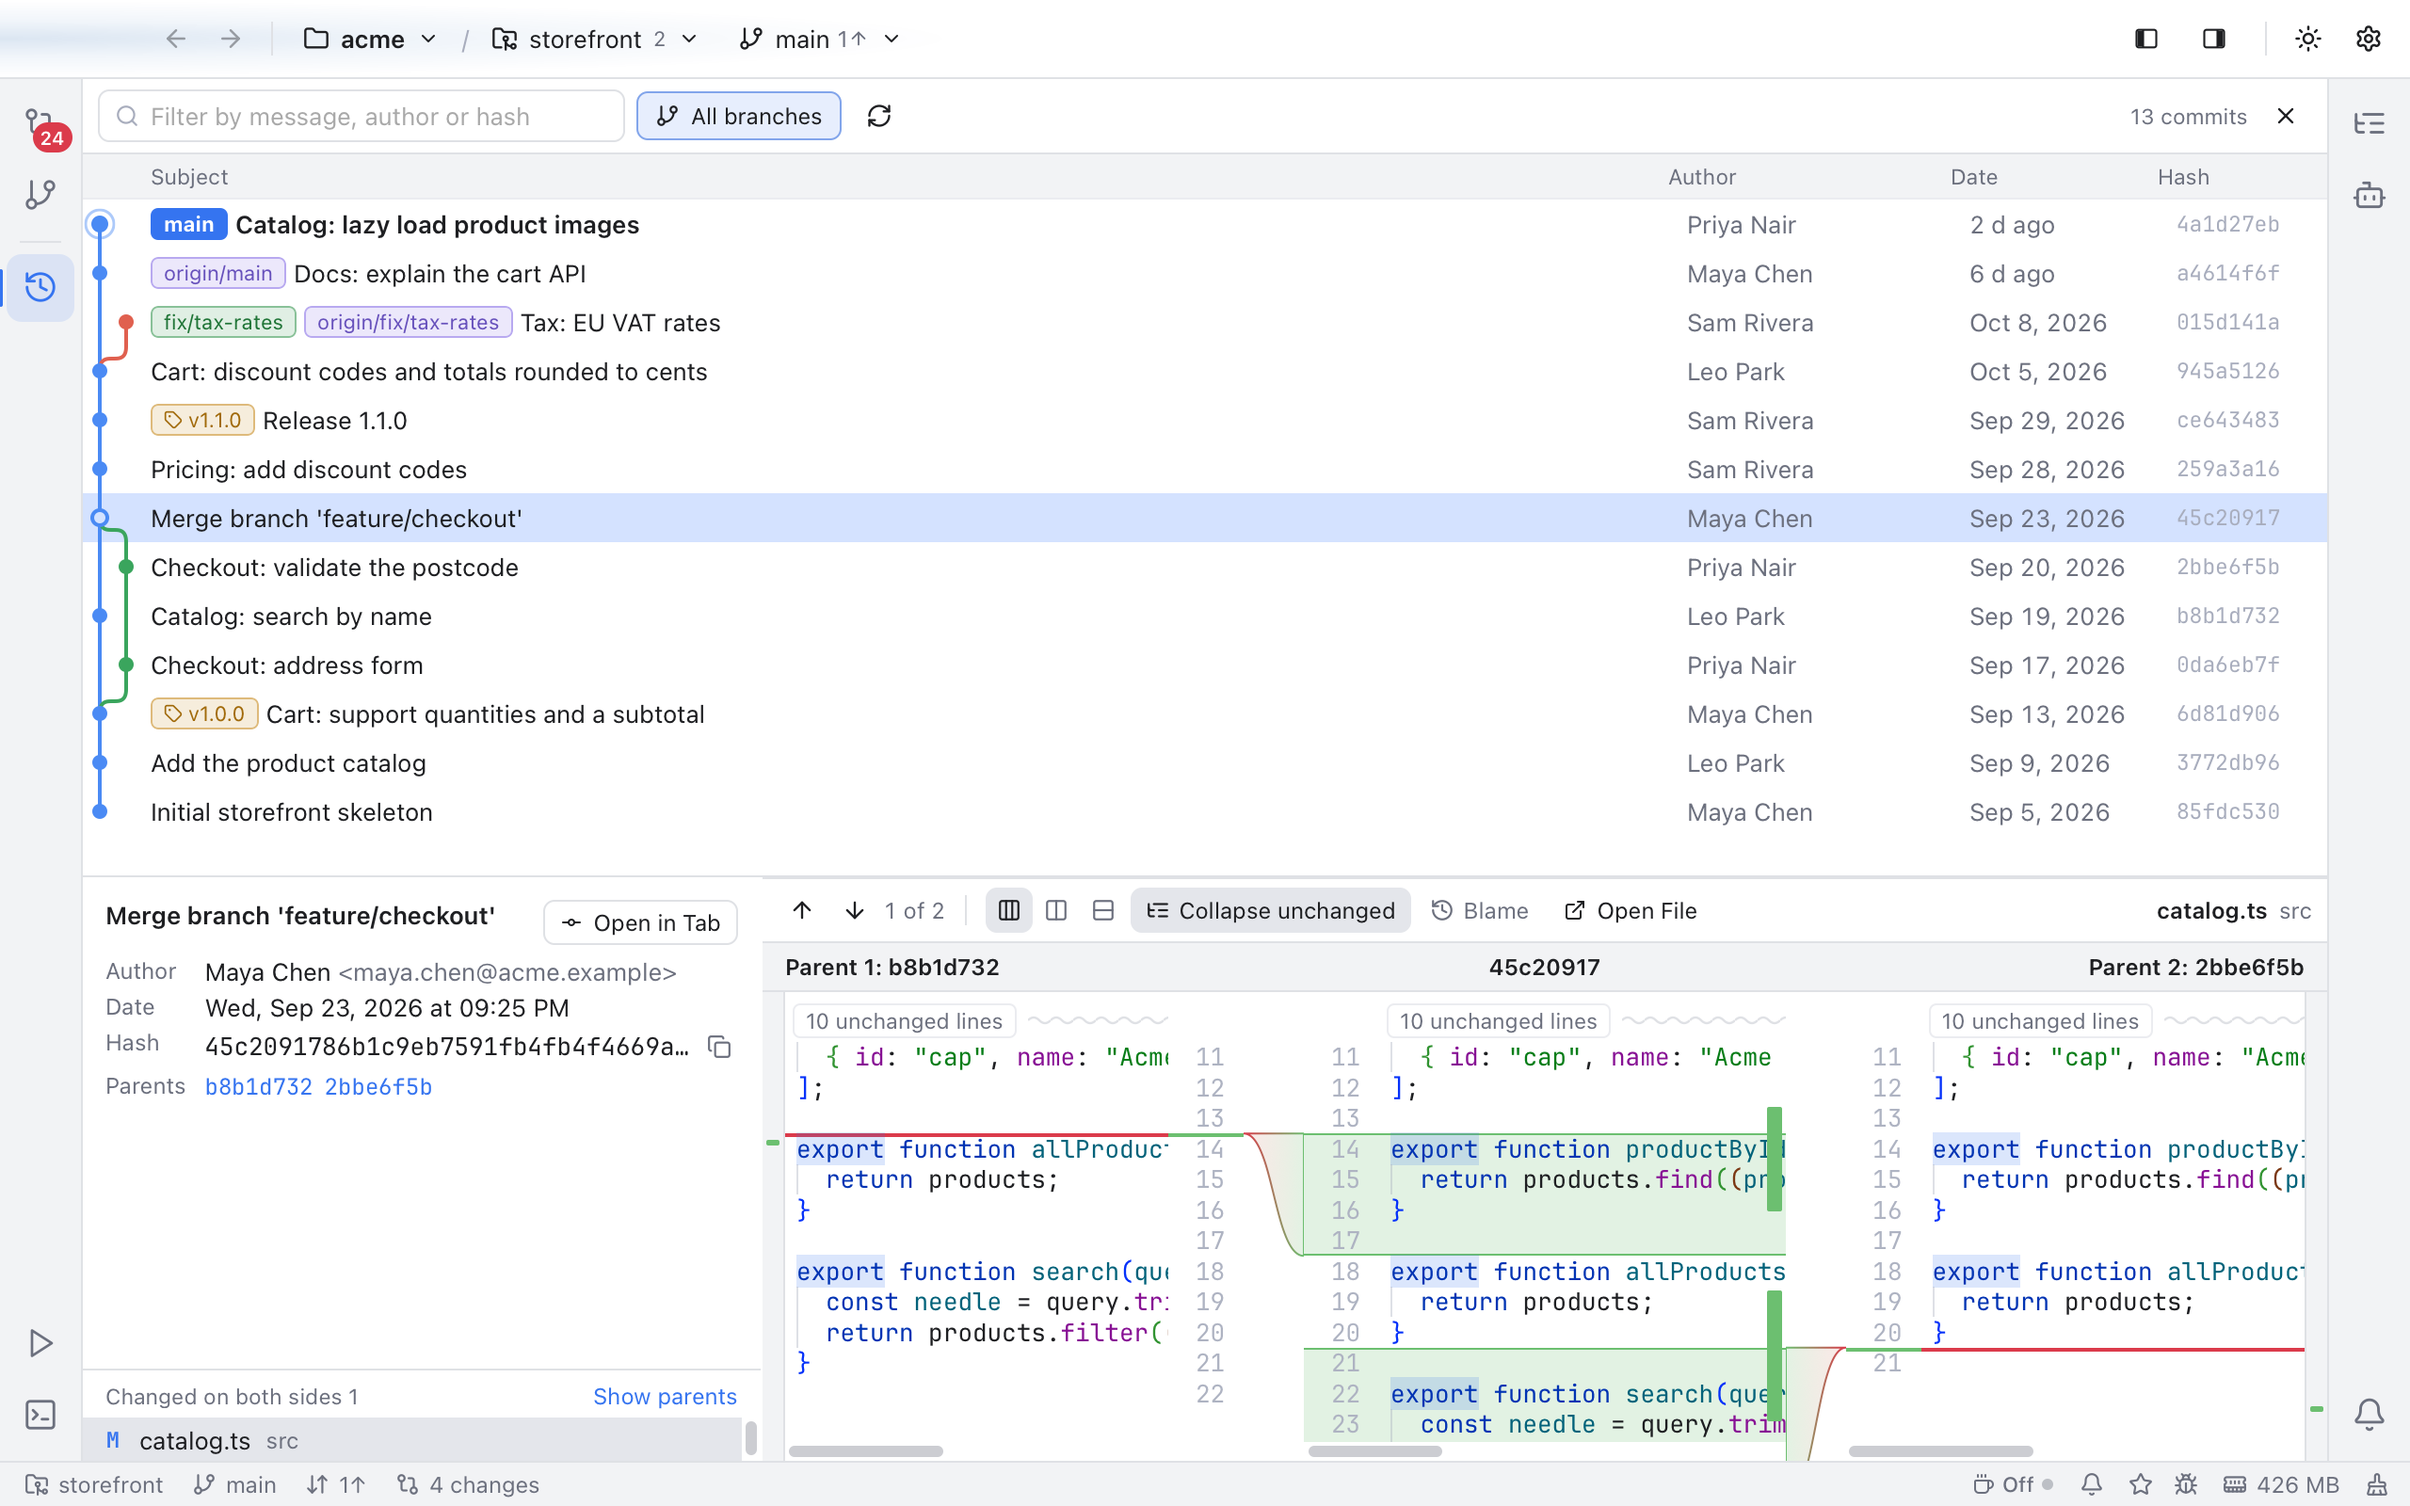
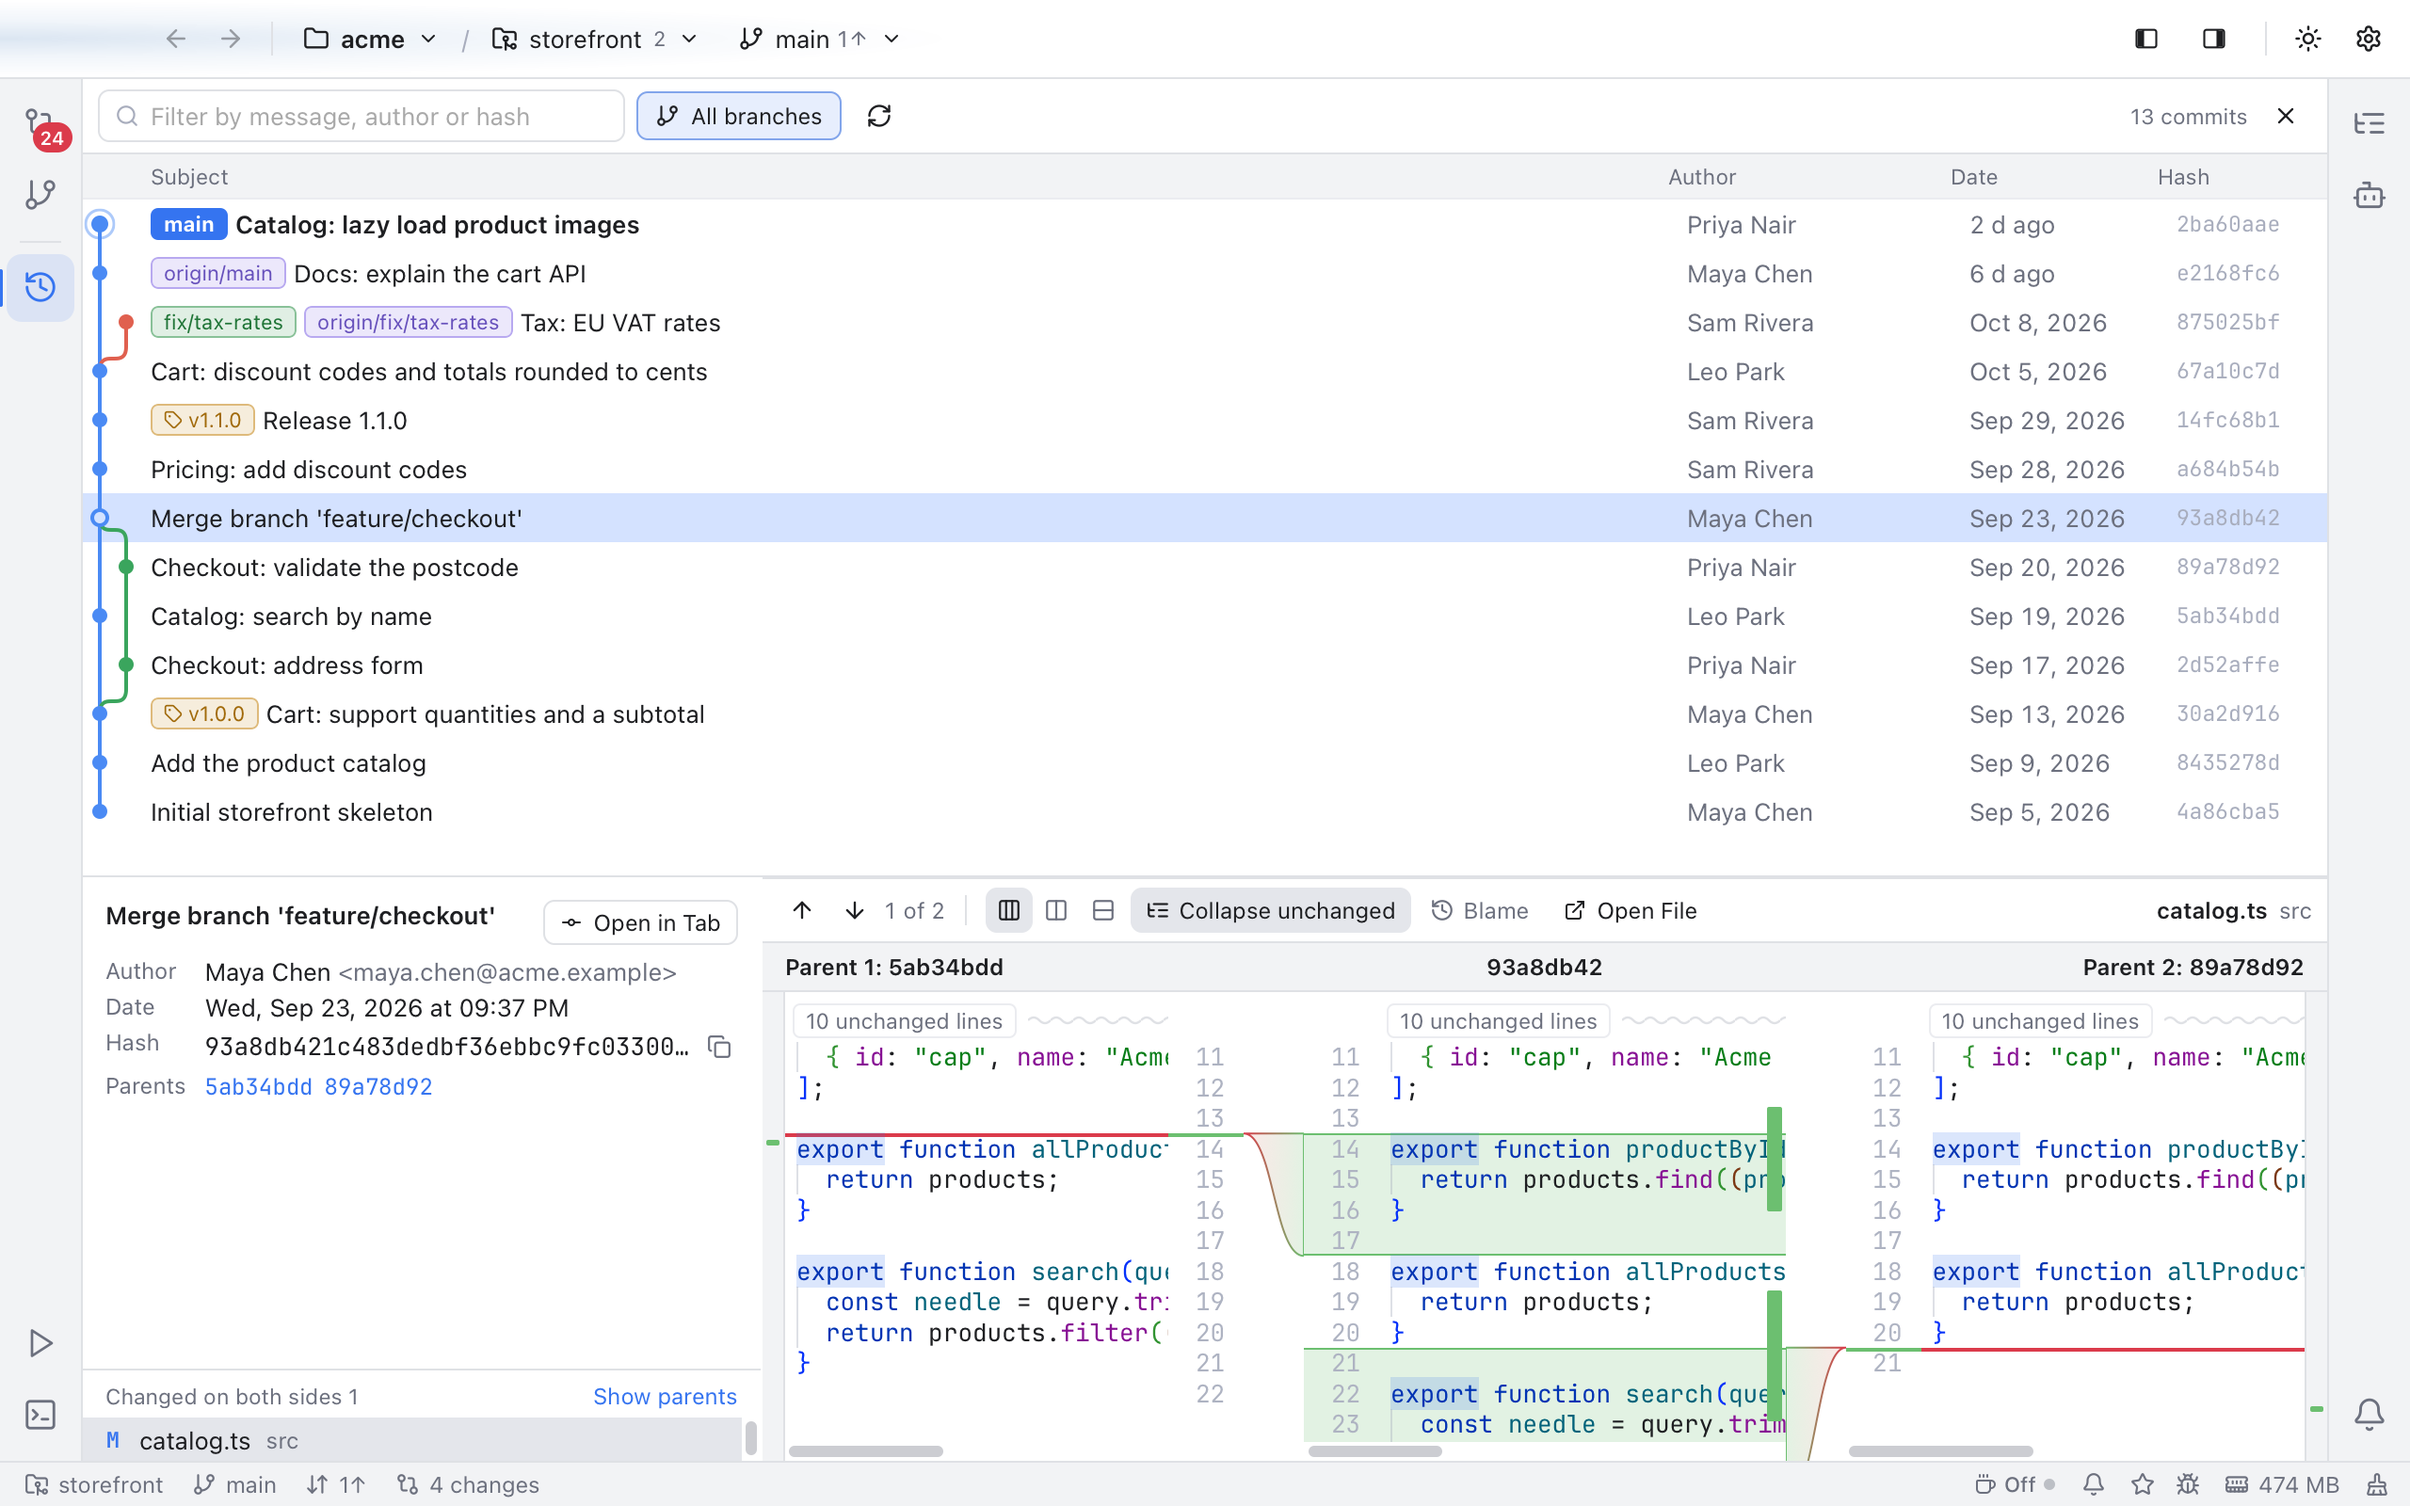
feat:[GM-150] diff folds always show their Show 10 more lines buttons, at the left of the fold

diff --git a/src/lib/diff/foldField.ts b/src/lib/diff/foldField.ts
@@ -62,7 +62,7 @@ function edgeButton(view: EditorView, element: HTMLElement, edge: "top" | "botto
   button.title = title;
   button.setAttribute("aria-label", title);
   button.appendChild(iconSvg(edge === "top" ? "chevron-up" : "chevron-down", scales.iconSize.compact));
-  button.appendChild(document.createTextNode(`${FOLD_STEP} lines`));
+  button.appendChild(document.createTextNode(`Show ${FOLD_STEP} more lines`));
   button.addEventListener("click", (event) => {
     event.stopPropagation();
     stepFold(view, view.posAtDOM(element), edge);
@@ -96,8 +96,12 @@ class FoldWidget extends WidgetType {
   toDOM(view: EditorView): HTMLElement {
     const element = document.createElement("div");
     element.className = "cm-diffFold";
+    // The 10-line steps lead the row, always shown, so they sit at the left in every pane and layout.
     if (this.top) {
       element.appendChild(edgeButton(view, element, "top"));
+    }
+    if (this.bottom) {
+      element.appendChild(edgeButton(view, element, "bottom"));
     }
     const label = document.createElement("span");
     label.className = "cm-diffFoldLabel";
@@ -106,9 +110,6 @@ class FoldWidget extends WidgetType {
     const wave = document.createElement("span");
     wave.className = "cm-diffFoldWave";
     element.append(label, wave);
-    if (this.bottom) {
-      element.appendChild(edgeButton(view, element, "bottom"));
-    }
     element.addEventListener("click", () => {
       stepFold(view, view.posAtDOM(element), "all");
     });

diff --git a/src/lib/diff/mergeExtensions.ts b/src/lib/diff/mergeExtensions.ts
@@ -123,10 +123,6 @@ export const diffTheme = EditorView.theme({
   "&.cm-editor .cm-content .cm-diffFold:hover .cm-diffFoldWave": {
     background: "var(--accent)",
   },
-  // The 10-line steps show under the pointer only, so a fold stays one quiet line.
-  "&.cm-editor .cm-content .cm-diffFold:not(:hover) .cm-diffFoldStep": {
-    visibility: "hidden",
-  },
   "&.cm-editor .cm-content .cm-diffFoldStep": {
     display: "inline-flex",
     alignItems: "center",

diff --git a/CHANGELOG.md b/CHANGELOG.md
@@ -147,6 +147,7 @@ GitHub release notes, and the app shows it as "What's New".
 
 ### Changed
 
+- A folded run of unchanged lines in a diff always shows its **Show 10 more lines** buttons, at the left of the fold in every layout, instead of only under the pointer.
 - Every diff and the merge tool (side by side diffs, the staging view, merge commits, a commit next to your working tree) color each change through its line numbers, so it runs as one band from pane to pane. Each side's line numbers face the middle, the Apply, Ignore and Revert buttons sit beside them without covering any number, and the gaps between panes are narrower. The panes scroll together with one scrollbar at the right edge.
 - Git Manager is now **Nibtree**: the app (`Nibtree.app`), its identifier (`io.github.shibbirweb.nibtree`), the command line tool (`nibtree`), the settings folder (`~/.nibtree`, moved from `~/.gitmanager` on first start), saved workspaces (`.nibtree-workspace`; old `.gitmanager-workspace` files still open) and the repository (`shibbirweb/nibtree`). Install the command again from Settings, set up `git mergetool` again with the new lines, and sign in to GitHub again.
 - Six color themes have new names, with the same colors: Classic Light, Islet Light, Islet Dark, Dusk, Light+ and Dark+. A saved choice of one of them falls back to the default theme once; pick it again in Settings > Editor.

diff --git a/docs/wiki/usage/Diffs.md b/docs/wiki/usage/Diffs.md
@@ -60,7 +60,7 @@ Click into one side and press Cmd+F. That side's find bar opens above the diff, 
 
 ## Collapse unchanged lines
 
-**Collapse unchanged** (on by default) folds long runs of lines that are the same on both sides, keeping three lines of context around each change. A folded run shows as a wavy line named after the code below it, such as **Cart > remove()** (or **23 unchanged lines** outside a class or function). Hover it for **10 lines** buttons that show more at either end; a click elsewhere shows it all. Turn the button off to see the whole file. Nibtree remembers your choice for every diff.
+**Collapse unchanged** (on by default) folds long runs of lines that are the same on both sides, keeping three lines of context around each change. A folded run shows as a wavy line named after the code below it, such as **Cart > remove()** (or **23 unchanged lines** outside a class or function). The **Show 10 more lines** buttons at its left open more at the top or the bottom; a click elsewhere shows it all. Turn the button off to see the whole file. Nibtree remembers your choice for every diff.
 
 ## Stage or unstage one change
 

diff --git a/docs/wiki/developer/How-Diffs-Work.md b/docs/wiki/developer/How-Diffs-Work.md
@@ -118,7 +118,7 @@ In the Log, `CommitDetails.svelte` loads `getCommitFileDiff` and shows the view 
 
 **Let the UI compute the diff.** One engine draws what you see, and the hunk buttons come free with `@codemirror/merge`.
 
-**Our own folds.** The library's `collapseUnchanged` opens only whole runs; ours opens 10 lines at a time, on both sides.
+**Our own folds.** The library's `collapseUnchanged` opens only whole runs; ours opens 10 lines at a time on both sides, buttons always at the left.
 
 **One split for every diff.** The ratio is layout state, like panel widths, so it lives in `state.json` and every diff shares it.
 
